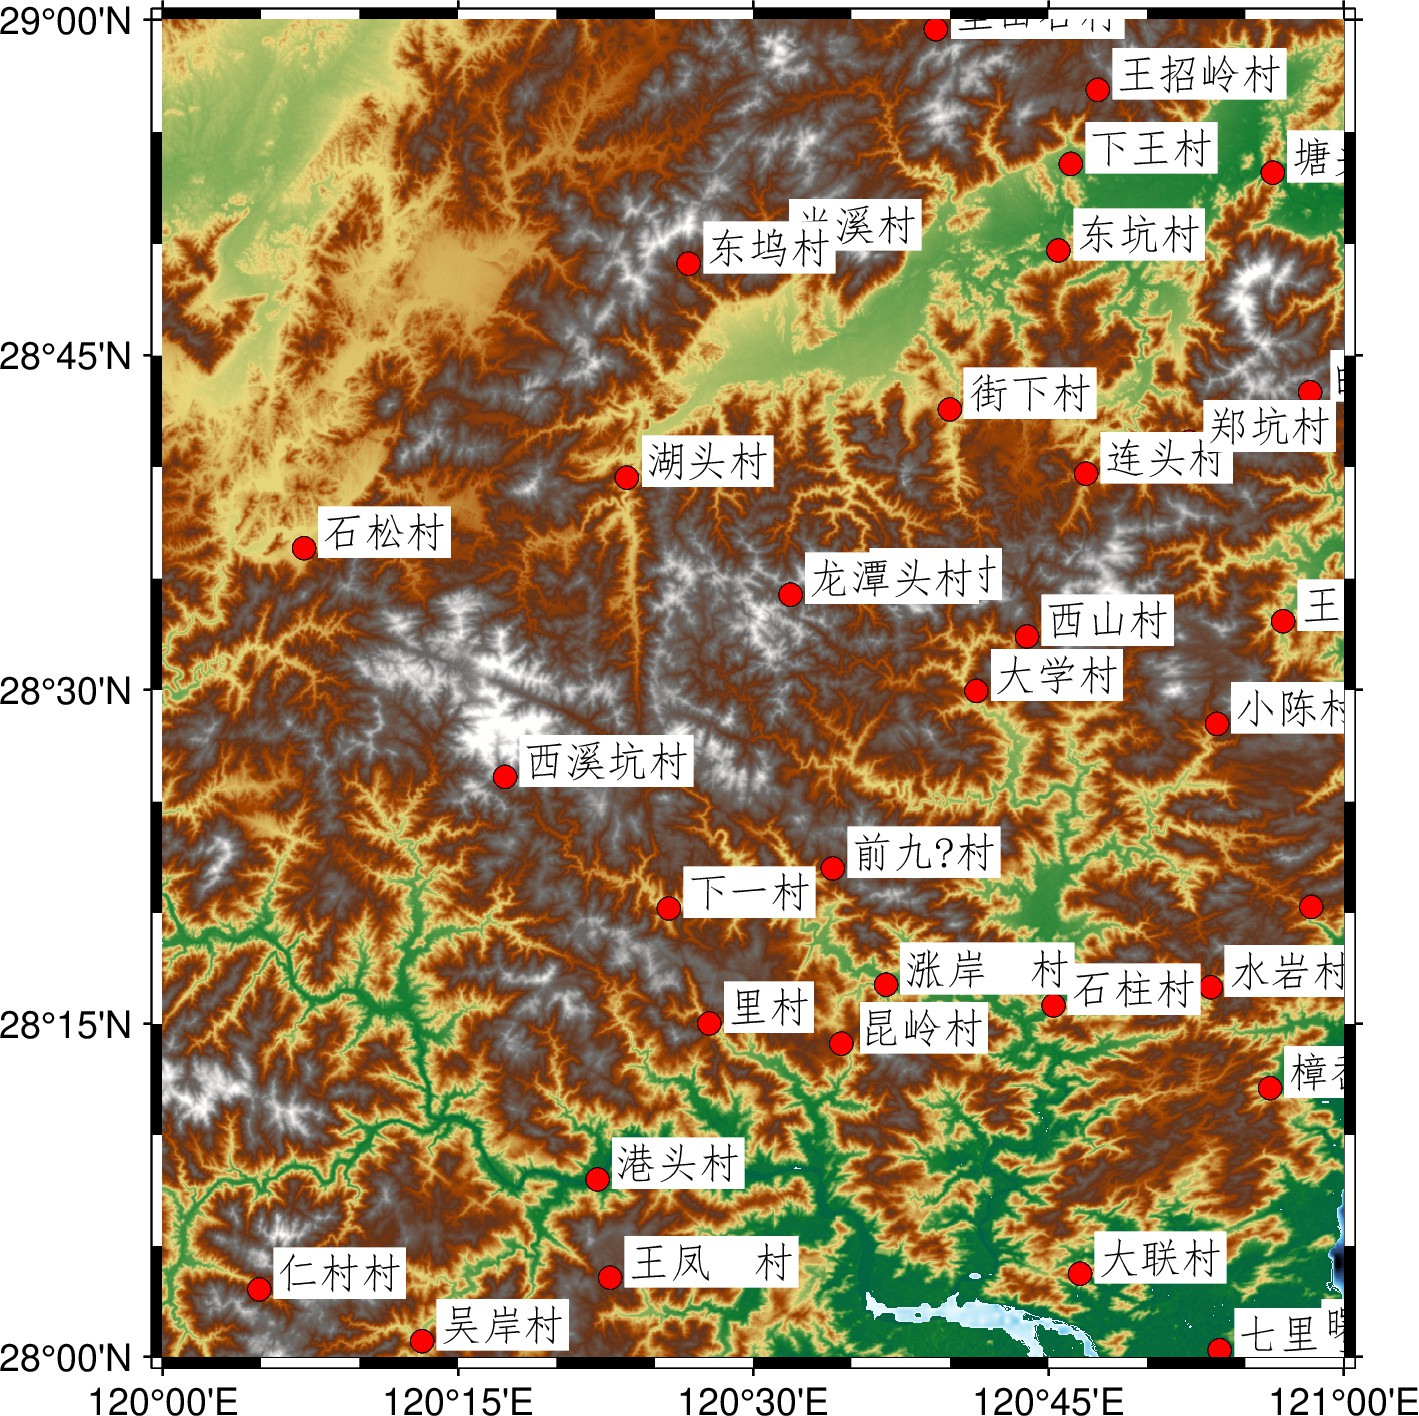
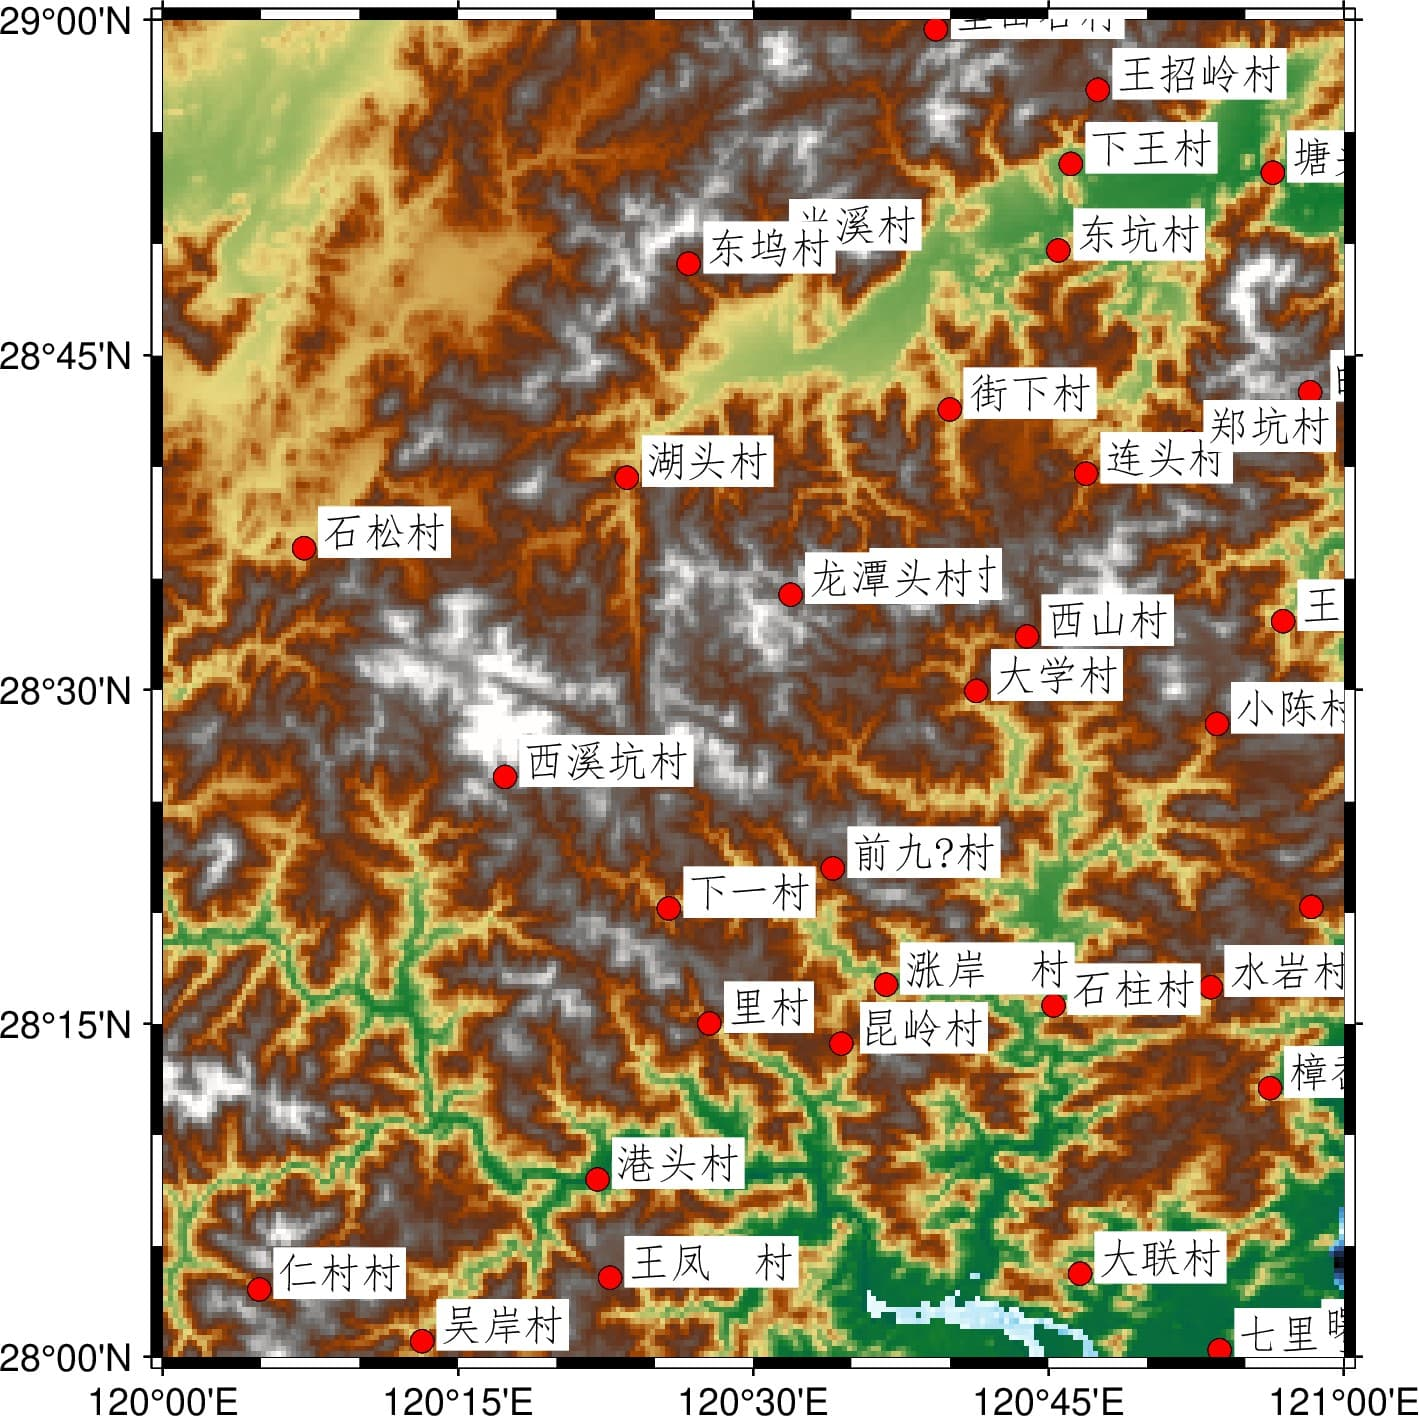
fix

diff --git a/content/blog/2018-04-15-national-geographic-database/index.md b/content/blog/2018-04-15-national-geographic-database/index.md
@@ -190,7 +190,7 @@ gmt begin AGNP jpg
   gmt set PS_CHAR_ENCODING Standard+
 
   gmt basemap -R120/121/28/29 -JM10c -Baf
-  gmt grdimage @earth_relief_03s -Cgeo
+  gmt grdimage @earth_relief_15s -Cgeo
   gmt plot -Sc0.2c -Gred -W0p,black AGNP.gmt
   chcp 936
   gmt convert AGNP.gmt -a2="NAME" | gmt text -F+f10p,40+jTL -D0.15c/0.3c -Gwhite
